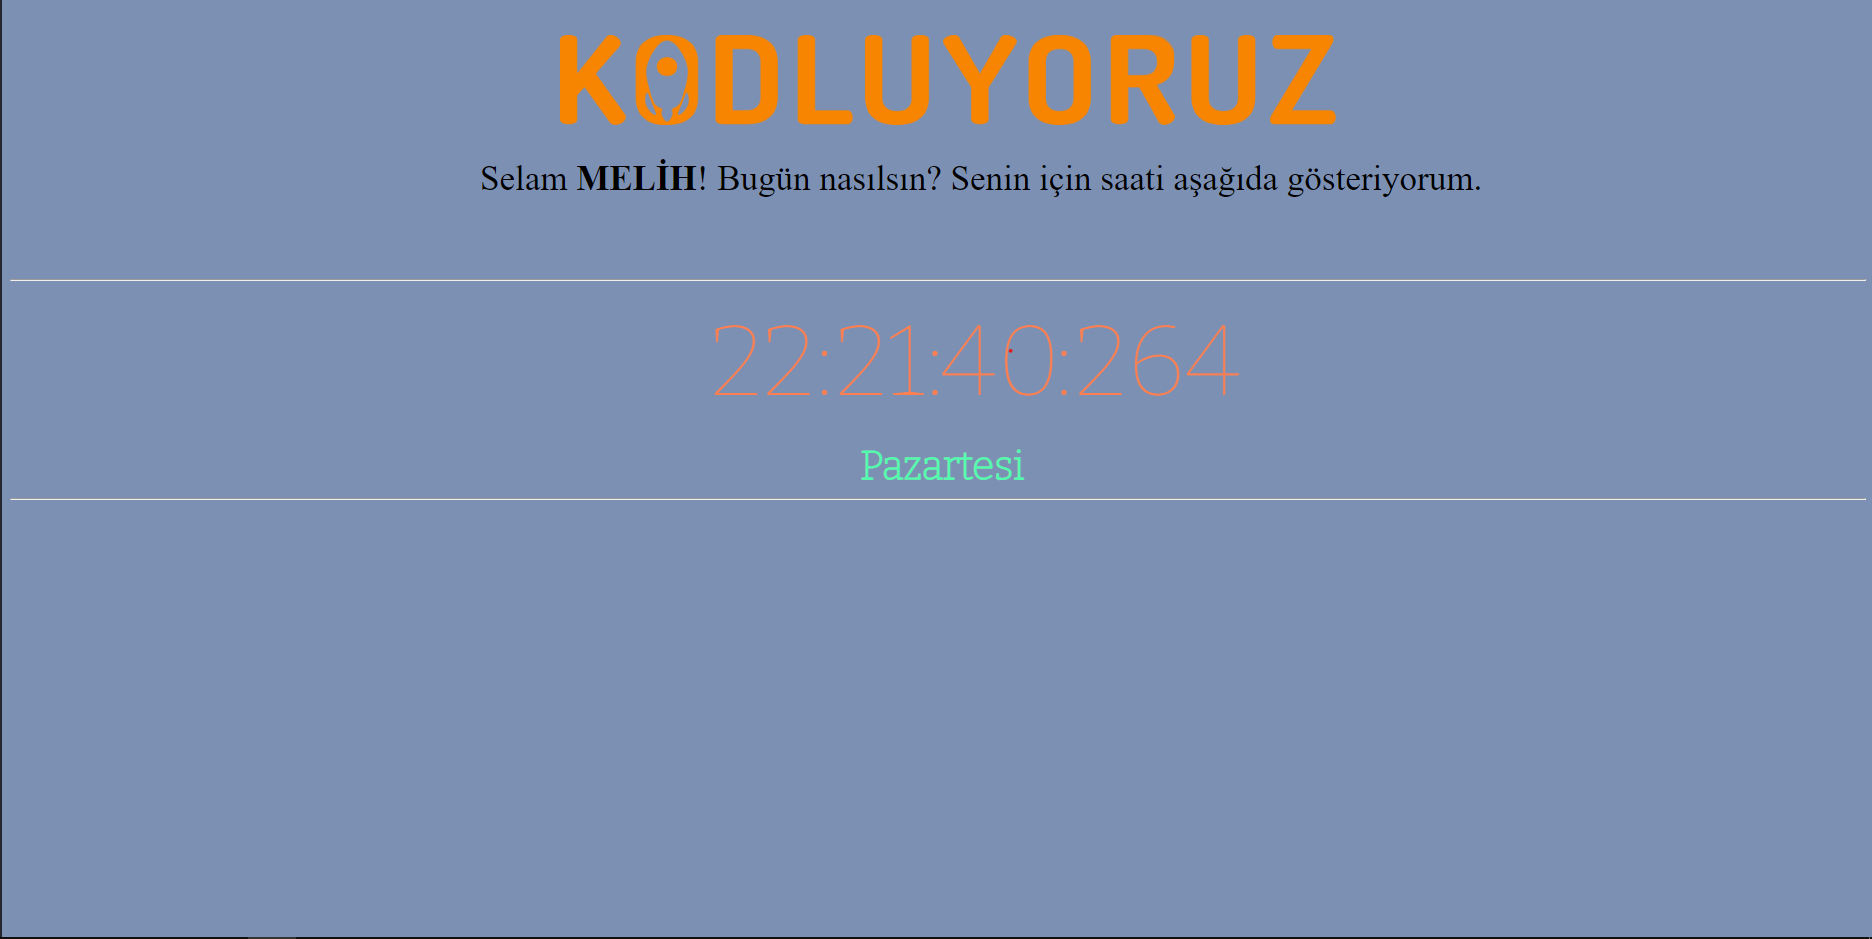
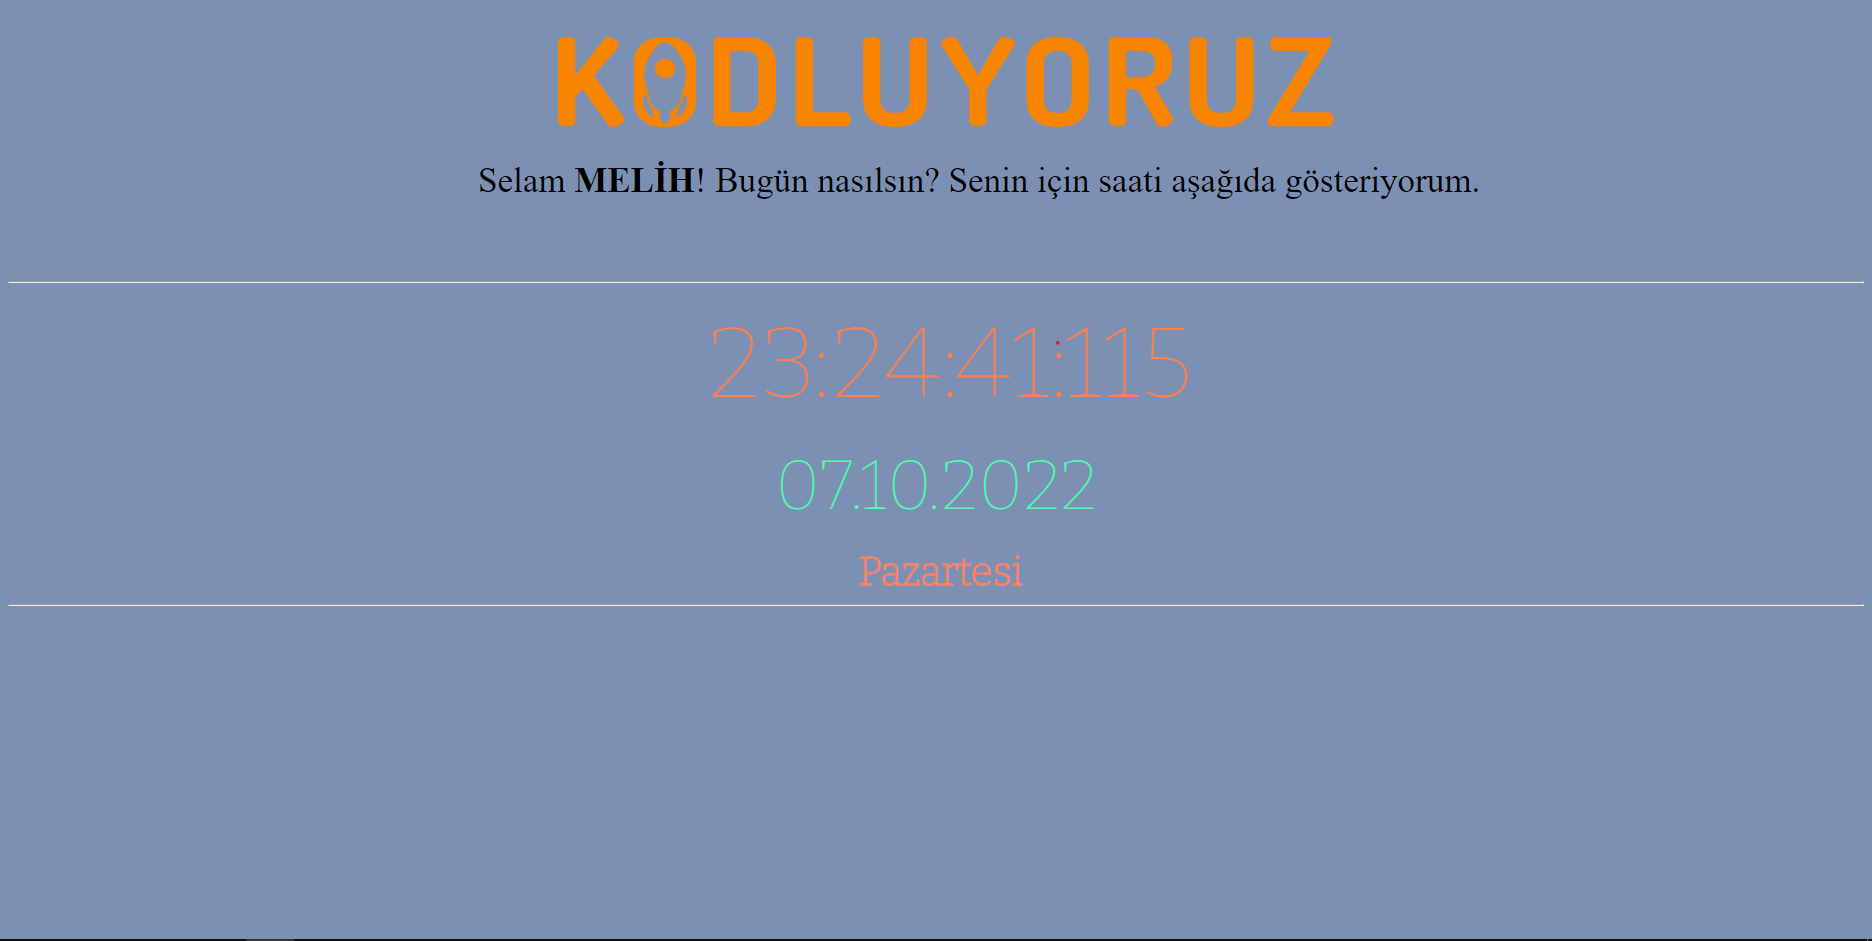
upload hw

diff --git a/TİMESCREEN/clock.js b/TİMESCREEN/clock.js
@@ -34,9 +34,20 @@ let d = new Date(); //GÜNÜ AYARLAMAK VE DAHA NET OKUNABİLMESİ ADINA ZAMANI T
  (TimeDay = 6)? "Cumartesi":
  (TimeDay = 0)? "Pazar": "";
 
+ let date = new Date(); //YILI GÜN/AY/YIL ŞEKLİNDE YAZDIRIYORUZ.
+ let dateDay = new Date().getDate();
+ let dateMonth = new Date().getMonth();
+ let dateYear = new Date().getFullYear();
+
+ if( dateDay< 10){          
+   dateDay = "0" + dateDay
+ }else if (dateMonth < 10){
+   dateMonth = "0" +dateMonth
+ };
 
  document.querySelector(".clock").innerHTML = timeHours+ ":"+ timeMinutes+":" + timeSeconds +":"+ timeMilliSecons ;  //OLUŞTURDUĞUMUZ DEĞİŞKENLERİ HTML ELEMENTİMİZE AKTARDIK
   document.querySelector(".day").innerHTML = `<b>${TimeDay}</b>`;
+  document.querySelector(".date").innerHTML = dateDay+"."+dateMonth+"."+dateYear;
 } setInterval(time) //VE FUNCTİONUMUZU ÇALIŞTIRDIK. SETİNTERVAL ARACILIĞI İLE SANİYE DEĞİŞİMİNİ CANLI OLARAK ALDIK.
 
 

diff --git a/TİMESCREEN/clock.css b/TİMESCREEN/clock.css
@@ -30,6 +30,14 @@ img {
   margin-left: 850px;
   margin-top: 20px;
   font-family: 'Bitter', serif;
-  color:rgb(80, 255, 173);
+  color:coral;
   font-size: 40px;
+}
+.date {
+ display: flex;
+ justify-content: center;
+  margin-top: 20px;
+  font-family: 'Bitter', serif;
+  color:rgb(80, 255, 173);
+  font-size: 70px;
 }

diff --git a/TİMESCREEN/index.html b/TİMESCREEN/index.html
@@ -14,9 +14,11 @@
   <img class="img" src="İMG/kodluyoruz_yatay_slogan.png" alt="">
   <div  id="name"></div>
   <hr>
-  <div class="clock"></div>
   
+  <div class="clock"></div>
+  <div class="date"></div>
   <div class="day"></div>
+  
   <hr>
   
   <script src="clock.js"></script>
